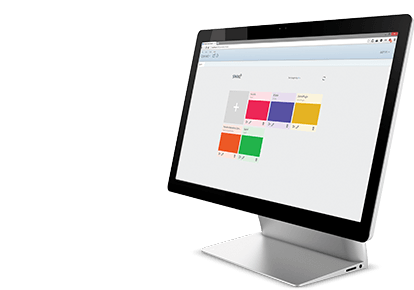
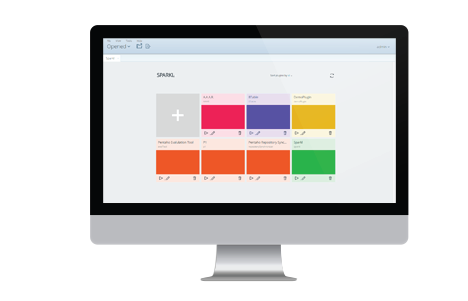
- Updated website images.

diff --git a/index.html b/index.html
@@ -75,13 +75,13 @@
             <div class="container cbp-so-section" id="containerHeader">
               <!-- Example row of columns -->
               <div class="row">
-                <div class="col-lg-7 cbp-so-side cbp-so-side-left">
-                  <h1>Introducing Pentaho Community Edition 5.2</h1>
+                <div class="col-lg-6 cbp-so-side cbp-so-side-left">
+                  <h1 style="letter-spacing: -0.03em;">Introducing Pentaho Community Edition 5.2</h1>
                   <p>Promoting innovation, participation, and cooperation. <br>
                   This release includes the <strong>Pentaho Marketplace</strong> where community members can explore and install community-developed Pentaho plugins with just one click.</p>
                   <p class="large-button"><span class="btn btn-default btn-header" id="buttonDownloadCE">Download Section<img src="img/download-section.png"></span></p>
                 </div>
-                <div class="col-lg-5 cbp-so-side cbp-so-side-right">
+                <div class="col-lg-6 cbp-so-side cbp-so-side-right">
                   <img src="img/pentaho-52-screen.png" alt="">
                   <p class="small-button-green"><span class="btn btn-default btn-header" id="buttonDownloadCE-small">Download Section<img src="img/download-section.png"></span></p>
                 </div>
@@ -92,12 +92,12 @@
             <div class="container cbp-so-section" id="containerHeader">
               <!-- Example row of columns -->
               <div class="row">
-                <div class="col-lg-7 cbp-so-side cbp-so-side-left">
+                <div class="col-lg-6 cbp-so-side cbp-so-side-left">
                   <h1>Pentaho<br>Marketplace</h1>
                   <p>Now you can browse through the BA Server and PDI Marketplace entries in the Pentaho Marketplace website.</p>
                   <a class="large-button" href="http://www.pentaho.com/marketplace/" target="_blank" style="min-width: 0;"><span class="btn btn-default btn-header">Launch<img src="img/arrow-right-green.png"></span></a>
                 </div>
-                <div class="col-lg-5 cbp-so-side cbp-so-side-right">
+                <div class="col-lg-6 cbp-so-side cbp-so-side-right">
                   <img src="img/marketplace-screen.png" alt="">
                   <a class="small-button-green" href="http://www.pentaho.com/marketplace/" target="_blank"><span class="btn btn-default btn-header">Launch<img src="img/arrow-right-green.png"></span></a>
                 </div>
@@ -114,7 +114,7 @@
                   <a class="large-button" href="http://www.meetup.com/Pentaho-London-User-Group/events/178634722/" target="_blank" style="min-width: 0;"><span class="btn btn-default btn-header">Learn More<img src="img/arrow-right-green.png"></span></a>
                 </div>
                 <div class="col-lg-6 cbp-so-side cbp-so-side-right pug-london">
-                  <img id="pug-london-logo" src="img/PUG-London.png" alt="" style="margin-top: -11px;">
+                  <img id="pug-london-logo" src="img/PUG-London.png" alt="">
                   <a class="small-button-green" href="http://www.meetup.com/Pentaho-London-User-Group/events/178634722/" target="_blank"><span class="btn btn-default btn-header">Learn More<img src="img/arrow-right-green.png"></span></a>
                 </div>
               </div>

diff --git a/css/main.css b/css/main.css
@@ -612,7 +612,7 @@ a.large-button {
     margin-top: 0px;
   }
 
-  #containerHeader .col-lg-5,
+  #containerHeader .col-lg-6:last-child,
   #containerHeader .pug-london {
     text-align: center;
     margin-top: 30px;
@@ -1154,27 +1154,23 @@ div.panel-group div.panel div.panel-heading h4.panel-title a.accordion-toggle:no
 ========================== SPARKL ============================
 =========================================================== */
 
-#sparkl .backPage {
-  background: #0d9be0; /* Old browsers */
-  background: -moz-linear-gradient(left,  #0d9be0 0%, #49bee7 100%); /* FF3.6+ */
-  background: -webkit-gradient(linear, left top, right top, color-stop(0%,#0d9be0), color-stop(100%,#49bee7)); /* Chrome,Safari4+ */
-  background: -webkit-linear-gradient(left,  #0d9be0 0%,#49bee7 100%); /* Chrome10+,Safari5.1+ */
-  background: -o-linear-gradient(left,  #0d9be0 0%,#49bee7 100%); /* Opera 11.10+ */
-  background: -ms-linear-gradient(left,  #0d9be0 0%,#49bee7 100%); /* IE10+ */
-  background: linear-gradient(to right,  #0d9be0 0%,#49bee7 100%); /* W3C */
-  filter: progid:DXImageTransform.Microsoft.gradient( startColorstr='#0d9be0', endColorstr='#49bee7',GradientType=1 ); /* IE6-9 */
-}
+/*#sparkl .backPage {
+  background: #0d9be0;
+  background: -moz-linear-gradient(left,  #0d9be0 0%, #49bee7 100%);
+  background: -webkit-gradient(linear, left top, right top, color-stop(0%,#0d9be0), color-stop(100%,#49bee7));
+  background: -webkit-linear-gradient(left,  #0d9be0 0%,#49bee7 100%);
+  background: -o-linear-gradient(left,  #0d9be0 0%,#49bee7 100%);
+  background: -ms-linear-gradient(left,  #0d9be0 0%,#49bee7 100%);
+  background: linear-gradient(to right,  #0d9be0 0%,#49bee7 100%);
+  filter: progid:DXImageTransform.Microsoft.gradient( startColorstr='#0d9be0', endColorstr='#49bee7',GradientType=1 );
+}*/
 
-#sparkl h1 {
+/*#sparkl h1 {
   color: #fff;
-}
+}*/
 
 #sparkl #containerHeader p {
   color: #616161;
-}
-
-#sparkl #containerHeader .col-lg-5 > img {
-  margin-top: 0px;
 }
 
 #sparkl .backPage > .hr {
@@ -1222,7 +1218,8 @@ div.panel-group div.panel div.panel-heading h4.panel-title a.accordion-toggle:no
   font-size: 45px;
 }
 
-.pluginPage #containerHeader h1 strong {
+.pluginPage #containerHeader h1 strong,
+#sparkl #containerHeader h1 strong {
   font-weight: 500;
 }
 

diff --git a/projects/sparkl/index.html b/projects/sparkl/index.html
@@ -71,8 +71,8 @@
         <!-- Example row of columns -->
         <div class="row">
           <div class="col-lg-7 cbp-so-side cbp-so-side-left">
-            <h1 style="color:#fff;">App Builder - <strong>Sparkl</strong></h1>
-            <p style="color:#fff;">Create and explore Pentaho plugins.</p>
+            <h1>App Builder - <strong>Sparkl</strong></h1>
+            <p>Create and explore Pentaho plugins.</p>
           </div>
           <div class="col-lg-5 cbp-so-side cbp-so-side-right">
             <img src="../../img/sparkl-header-dashboard.png" alt="">
